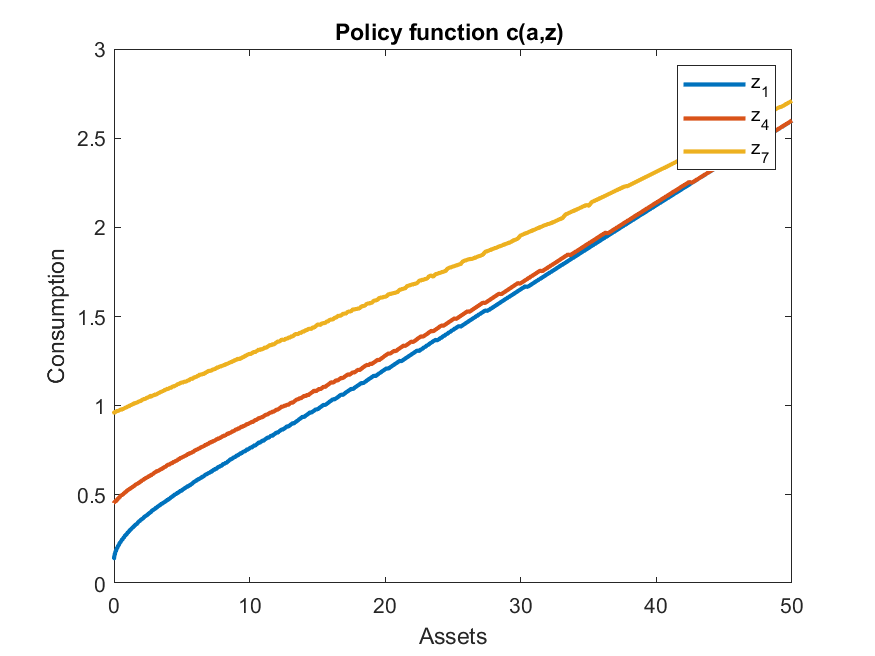
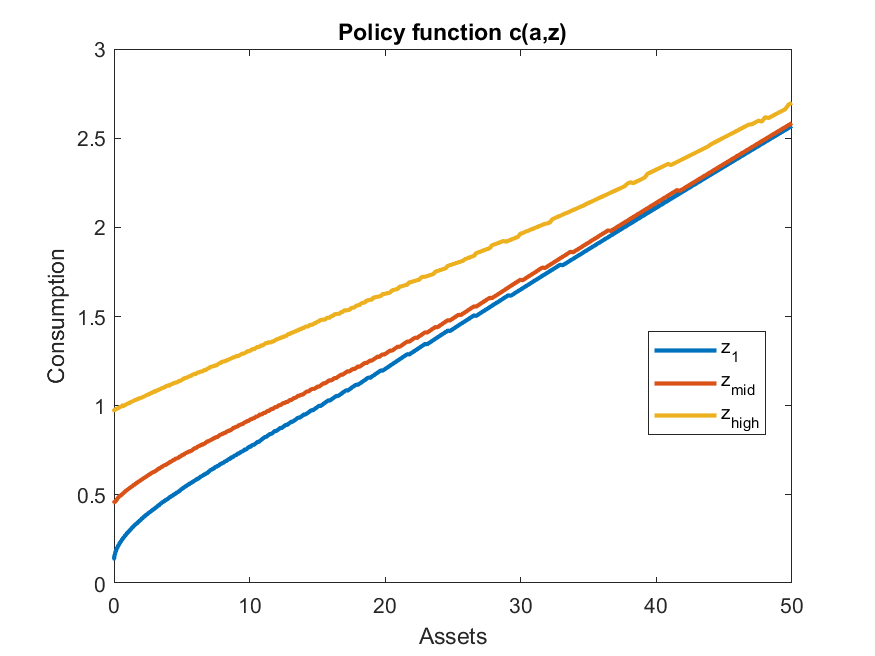
Update to focus on possible bug

diff --git a/main.m b/main.m
@@ -1,4 +1,7 @@
 %% Pijoan-Mas (2006)
+% TODO: For this set of parameters, check two methods for VFI with interp:
+% ValueFnIter_Refine_postGI_raw (default): ALL GOOD
+% ValueFnIter_postGI_sparse_raw: DOES NOT CONVERGE
 % This program replicates most of the quantitative results of
 % Josep Pijoan-Mas, 2006. "Precautionary Savings or Working Longer Hours?"
 % Specifically, it reproduces Table 1, Table 2 and Figure 1.
@@ -16,7 +19,7 @@ mypath = 'C:\Users\aledi\Documents\GitHub\VFIToolkit-matlab';
 addpath(genpath(mypath))
 
 % Flag for saving output (tables and figures)
-do_save     = 0;              % Set to 1 to save LaTeX tables and figures
+do_save     = 1;              % Set to 1 to save LaTeX tables and figures
 results_dir = 'results';      % Folder for saved output
 
 if do_save == 1 && ~exist(results_dir, 'dir')
@@ -33,11 +36,12 @@ n_d       = 51;  % No. grid points for labor supply
 % --- Value functions options
 vfoptions=struct(); 
 vfoptions.lowmemory     = 0;
-vfoptions.verbose       = 0;
+vfoptions.verbose       = 1;
 vfoptions.tolerance     = 1e-9;
-vfoptions.maxiter       = 100;
+vfoptions.damp          = 0.9;
+vfoptions.maxiter       = 500;
 vfoptions.howards       = 80; 
-vfoptions.maxhowards    = 500;
+vfoptions.maxhowards    = 0;
 vfoptions.howardsgreedy = 0;
 vfoptions.howardssparse = 0;
 vfoptions.gridinterplayer = 1;
@@ -62,12 +66,12 @@ heteroagentoptions.maxiter                  = 1000;
 %% Set economic parameters
 
 % Initial guess for GE parameter/price
-Params.K_to_L = 5.5649;
+Params.K_to_L = 5.843145;%5.5649;
 
 % --- Preference parameters
 Params.beta   = 0.945; % Discount factor
 Params.sigma  = 1.458; % Coefficient of relative risk aversion
-Params.nu     = 2.833; % Curvature of labor disutility
+Params.nu     = 2.9747;%2.833; % Curvature of labor disutility
 Params.lambda = 0.856; % Weight of labor in utility
 
 % --- Technology parameters

diff --git a/results/table1.tex b/results/table1.tex
@@ -5,12 +5,12 @@
 \toprule
 Parameter & Description & Target & Value \\
 \midrule
-$\sigma$  & Coeff. risk aversion   & corr(h,eps)= 0.002 & 1.458 \\
-$\nu$     & Inverse elast. leisure & cv(h)= 0.202       & 2.833 \\
-$\lambda$ & Weight of leisure      & H= 0.357           & 0.856 \\
-$\beta$   & Discount factor        & K/Y= 2.944         & 0.945 \\
-$\theta$  & Labor share            & wL/Y= 0.647        & 0.640 \\
-$\delta$  & Capital depreciation   & I/Y= 0.244         & 0.083 \\
+$\sigma$  & Coeff. risk aversion   & corr(h,\varepsilon)= -0.070 & 1.458 \\
+$\nu$     & Inverse elast. leisure & cv(h)= 0.172              & 2.975 \\
+$\lambda$ & Weight of leisure      & H= 0.359                  & 0.856 \\
+$\beta$   & Discount factor        & K/Y= 2.521                & 0.945 \\
+$\theta$  & Labor share            & wL/Y= 0.718               & 0.640 \\
+$\delta$  & Capital depreciation   & I/Y= 0.209                & 0.083 \\
 \bottomrule
 \end{tabular}
 \end{table}

diff --git a/results/table2.tex b/results/table2.tex
@@ -6,13 +6,13 @@
 Variable & $cv$ & Gini & $q_1$ & $q_2$ & $q_3$ & $q_4$ & $q_5$ \\
 \midrule
 \textbf{Hours} &   &  &   &  &  &  &  \\
-Model $E_0$ & 0.20 & 0.10 & 0.24 & 0.34 & 0.38 & 0.40 & 0.43 \\
+Model $E_0$ & 0.17 & 0.09 & 0.26 & 0.34 & 0.37 & 0.39 & 0.42 \\
 \addlinespace
 \textbf{Earnings} &   &  &   &  &  &  &  \\
-Model $E_0$ & 0.64 & 0.32 & 7.5 & 12.5 & 17.2 & 23.1 & 39.7 \\
+Model $E_0$ & 0.62 & 0.31 & 8.0 & 12.6 & 17.3 & 22.9 & 39.1 \\
 \addlinespace
 \textbf{Wealth} &   &  &   &  &  &  &  \\
-Model $E_0$ & 1.37 & 0.65 & 0.1 & 2.3 & 9.3 & 23.2 & 65.2 \\
+Model $E_0$ & 1.48 & 0.67 & 0.0 & 1.6 & 8.0 & 22.0 & 68.4 \\
 \bottomrule
 \end{tabular}
 \\[3ex]